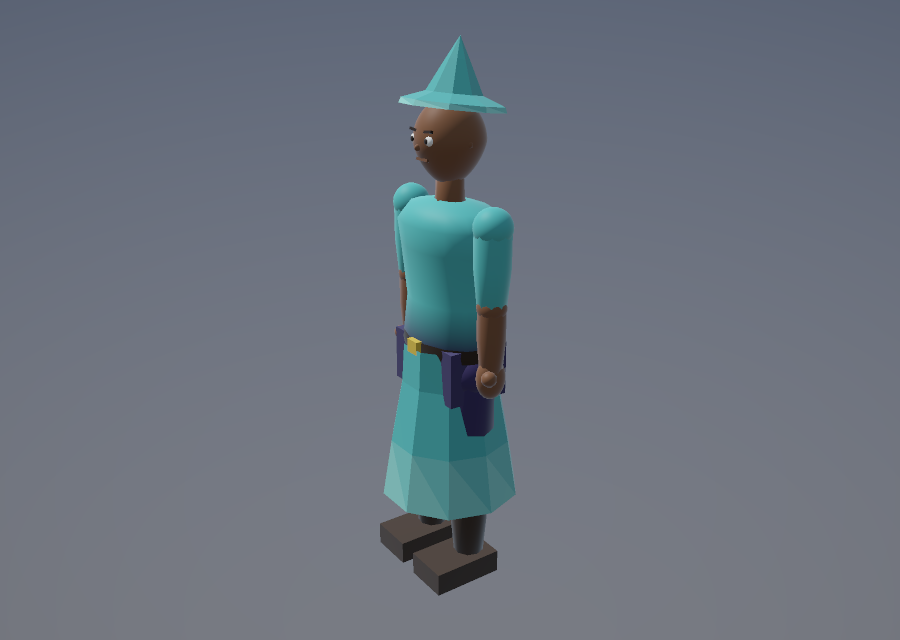
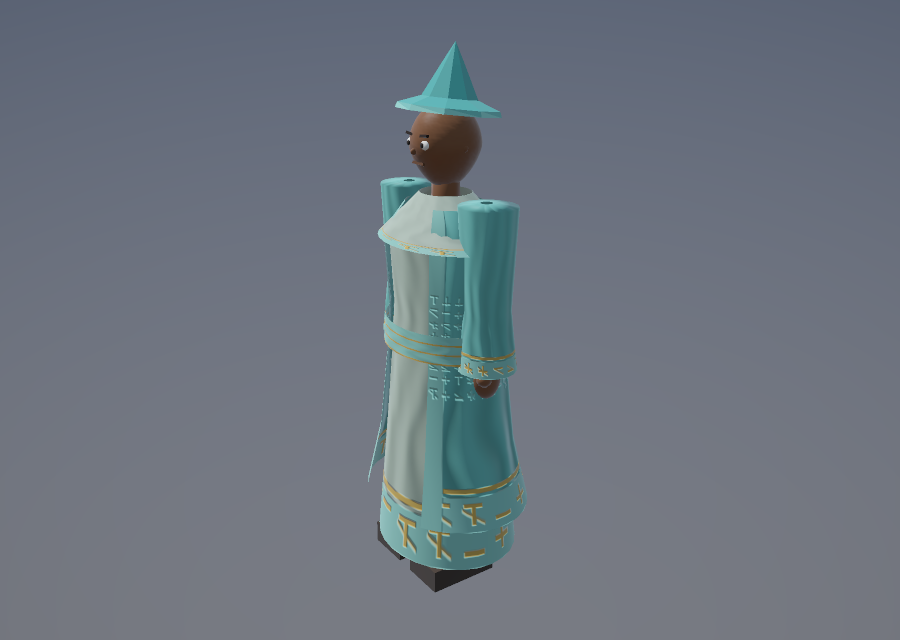
feat: accessories, AO bake, elder sage hero
- accessories param: bead necklace + gem pendant (draped over garments),
  belt knot with hanging ribbons, staff with orb — rigid-bound props
- mesh::bake_ao: deterministic spatial-grid vertex ambient occlusion baked
  into vertex colors (crevices read in any light); applied to characters
- examples/elder_sage.json: 15-line recipe reproducing the reference-style
  white-bearded sage in layered painted robes (rubric 4.4); gallery GLB +
  turntable and walking MP4s; mage/villager gallery recipes now dressed
- docs: phase 3 evaluation, README painted-garments overview, schema

Changed region(s): [[0.4044, 0.0625, 0.5911, 0.9375]]

diff --git a/src/generators/character.rs b/src/generators/character.rs
@@ -830,6 +830,16 @@ pub fn generate(p: &CharacterParams, pal: &Palette) -> Asset {
     );
     body.merge(&core);
 
+    // accessories (rigid-bound props)
+    for acc in &p.accessories {
+        if let Some(a) = accessory(acc, &rig, h, &w, pal) {
+            body.merge(&a);
+        }
+    }
+
+    // baked ambient occlusion: crevices read in any light
+    crate::mesh::bake_ao(&mut body, 0.55);
+
     let mut animations = Vec::new();
     if p.animate {
         animations.push(idle_clip(&rig, h));
@@ -1072,9 +1082,10 @@ fn outfit_parts(ctx: &GarmentCtx, style: &str) -> Vec<Part> {
                     rx: h * 0.058 * bulk,
                     rz: h * 0.056 * bulk,
                 },
-                // converge to close the shoulder opening
+                // converge to close the shoulder opening (kept low so the
+                // tip doesn't poke above the shoulder line from behind)
                 LoftStation {
-                    center: Vec3::new(ax, jw(aj).y + h * 0.062, 0.0),
+                    center: Vec3::new(ax * 0.96, jw(aj).y + h * 0.050, 0.0),
                     rx: h * 0.012,
                     rz: h * 0.012,
                 },
@@ -1169,6 +1180,82 @@ fn outfit_parts(ctx: &GarmentCtx, style: &str) -> Vec<Part> {
     }
 
     parts
+}
+
+/// Accessory props: bead necklace + gem pendant, belt knot with hanging
+/// ribbons, or a staff in the right hand.
+fn accessory(name: &str, rig: &Rig, h: f32, w: &Wardrobe, pal: &Palette) -> Option<Mesh> {
+    let jw = |i: usize| rig.world[i];
+    let gold = srgb(216, 176, 88);
+    let mut m = Mesh::new();
+    match name {
+        "necklace" => {
+            // beads draped across the chest in a shallow V
+            let c = jw(CHEST) + Vec3::new(0.0, h * 0.055, h * 0.125);
+            let beads = 15;
+            for i in 0..beads {
+                let t = i as f32 / (beads - 1) as f32; // 0..1 left→right
+                let x = (t - 0.5) * h * 0.11;
+                let sag = (1.0 - (2.0 * t - 1.0).powi(2)) * h * 0.05;
+                let mut bead = icosphere(h * 0.0075, 1, gold);
+                bead.translate(c + Vec3::new(x, -sag, -x.abs() * 0.25));
+                m.merge(&bead);
+            }
+            // pendant gem at the lowest point
+            let mut gem = icosphere(h * 0.016, 1, pal.accent * 1.3);
+            for v in gem.positions.iter_mut() {
+                v.y *= 1.4;
+            }
+            gem.recompute_smooth_normals();
+            gem.translate(c + Vec3::new(0.0, -h * 0.065, 0.0));
+            m.merge(&gem);
+            m.bind_all_to_joint(CHEST as u16);
+        }
+        "belt_knot" => {
+            let at = jw(HIPS) + Vec3::new(h * 0.02, h * 0.05, h * 0.115);
+            let knot = crate::subdiv::subdivide_n(
+                &cuboid(at, Vec3::new(h * 0.022, h * 0.018, h * 0.014), gold * 0.9),
+                1,
+                true,
+            );
+            m.merge(&knot);
+            // two hanging ribbon tails
+            for sx in [-1.0f32, 1.0] {
+                let guide: Vec<Vec3> = (0..5)
+                    .map(|i| {
+                        let t = i as f32 / 4.0;
+                        at + Vec3::new(
+                            sx * h * 0.012 + sx * t * h * 0.008,
+                            -t * h * 0.16,
+                            -t * t * h * 0.02,
+                        )
+                    })
+                    .collect();
+                m.merge(&ribbon(&guide, h * 0.022, h * 0.014, w.accent * 0.75, at));
+            }
+            m.bind_all_to_joint(HIPS as u16);
+        }
+        "staff" => {
+            let hand = jw(HAND_R);
+            let base = Vec3::new(hand.x - h * 0.01, 0.0, hand.z + h * 0.01);
+            let shaft = tube(
+                &[
+                    (base, h * 0.014),
+                    (base + Vec3::Y * h * 0.62, h * 0.012),
+                    (base + Vec3::Y * h * 1.02, h * 0.010),
+                ],
+                8,
+                |_| pal.trunk * 0.85,
+            );
+            m.merge(&crate::subdiv::subdivide(&shaft, false));
+            let mut orb = icosphere(h * 0.032, 2, pal.accent * 1.4);
+            orb.translate(base + Vec3::Y * h * 1.06);
+            m.merge(&orb);
+            m.bind_all_to_joint(HAND_R as u16);
+        }
+        _ => return None,
+    }
+    Some(m)
 }
 
 fn keys(n: usize, dur: f32) -> Vec<f32> {

diff --git a/src/mesh.rs b/src/mesh.rs
@@ -401,6 +401,70 @@ pub fn to_flat_shaded(src: &Mesh) -> Mesh {
     m
 }
 
+/// Bake approximate ambient occlusion into vertex colors: each vertex is
+/// darkened by nearby geometry in front of its normal (crevices, armpits,
+/// under-collar shadows). Deterministic spatial-grid sampling, O(n·k).
+pub fn bake_ao(m: &mut Mesh, strength: f32) {
+    use std::collections::HashMap;
+    let n = m.positions.len();
+    if n == 0 {
+        return;
+    }
+    let (lo, hi) = m.bounds();
+    let diag = (hi - lo).length().max(1e-6);
+    let radius = diag * 0.08;
+    let cell = radius;
+    let key = |p: Vec3| -> (i32, i32, i32) {
+        (
+            ((p.x - lo.x) / cell) as i32,
+            ((p.y - lo.y) / cell) as i32,
+            ((p.z - lo.z) / cell) as i32,
+        )
+    };
+    let mut grid: HashMap<(i32, i32, i32), Vec<u32>> = HashMap::new();
+    // subsample occluders on dense meshes to bound the cost
+    let step = (n / 20_000).max(1);
+    for i in (0..n).step_by(step) {
+        grid.entry(key(m.positions[i])).or_default().push(i as u32);
+    }
+    let mut occ = vec![0.0f32; n];
+    for i in 0..n {
+        let p = m.positions[i];
+        let nm = m.normals[i];
+        let (cx, cy, cz) = key(p);
+        let mut sum = 0.0f32;
+        for dx in -1..=1 {
+            for dy in -1..=1 {
+                for dz in -1..=1 {
+                    let Some(bucket) = grid.get(&(cx + dx, cy + dy, cz + dz)) else {
+                        continue;
+                    };
+                    for &j in bucket {
+                        let j = j as usize;
+                        if j == i {
+                            continue;
+                        }
+                        let d = m.positions[j] - p;
+                        let dist = d.length();
+                        if dist < 1e-6 || dist > radius {
+                            continue;
+                        }
+                        let toward = nm.dot(d / dist).max(0.0);
+                        // only geometry in FRONT of the surface occludes
+                        sum += toward * (1.0 - dist / radius).powi(2);
+                    }
+                }
+            }
+        }
+        occ[i] = sum;
+    }
+    let max = occ.iter().cloned().fold(0.0f32, f32::max).max(1e-6);
+    for i in 0..n {
+        let a = 1.0 - strength.clamp(0.0, 1.0) * 0.55 * (occ[i] / max).powf(0.7);
+        m.colors[i] *= a;
+    }
+}
+
 /// Axis-aligned box, flat-shaded.
 pub fn cuboid(center: Vec3, half: Vec3, color: Vec3) -> Mesh {
     let mut m = Mesh::new();

diff --git a/src/recipe.rs b/src/recipe.rs
@@ -216,6 +216,9 @@ pub struct CharacterParams {
     /// nasolabial folds).
     #[serde(default)]
     pub age: f32,
+    /// Extra props: necklace | belt_knot | staff.
+    #[serde(default)]
+    pub accessories: Vec<String>,
 }
 fn d_ornament() -> f32 { 0.6 }
 fn d_char_h() -> f32 { 1.7 }
@@ -462,6 +465,26 @@ mod tests {
         .build()
         .unwrap();
         assert_eq!(crate::gltf::to_glb(&long), crate::gltf::to_glb(&again));
+    }
+
+    #[test]
+    fn accessories_and_ao() {
+        let j = r#"{"kind":"character","seed":3,"accessories":["necklace","staff","belt_knot"]}"#;
+        let a = Recipe::parse(j).unwrap().build().unwrap();
+        a.validate().unwrap();
+        let bare = Recipe::parse(r#"{"kind":"character","seed":3}"#).unwrap().build().unwrap();
+        assert!(
+            a.parts[0].mesh.vertex_count() > bare.parts[0].mesh.vertex_count() + 100,
+            "accessories should add geometry"
+        );
+        // staff reaches above the head
+        let (_, hi) = a.parts[0].mesh.bounds();
+        let (_, bare_hi) = bare.parts[0].mesh.bounds();
+        assert!(hi.y > bare_hi.y + 0.05, "staff orb should top the silhouette");
+        // AO darkened somewhere without blowing out colors
+        assert!(a.parts[0].mesh.colors.iter().all(|c| c.max_element() <= 4.0));
+        let b = Recipe::parse(j).unwrap().build().unwrap();
+        assert_eq!(crate::gltf::to_glb(&a), crate::gltf::to_glb(&b));
     }
 
     #[test]

diff --git a/src/main.rs b/src/main.rs
@@ -443,7 +443,8 @@ palettes: verdant | autumn | arctic | volcanic | desert | mystic
  "bulk":1.0,"animate":true,"seed":1,
  "hair":"short|ponytail|bun|bald|long|topknot","beard":"none|mustache|short|long",
  "hair_color":"#eae7e0","skin_tone":0,"expressions":true,
- "outfit":"robe|tunic|plain","ornamentation":0.6,
+ "outfit":"robe|tunic|plain","ornamentation":0.6,"age":0.8,
+ "accessories":["necklace","belt_knot","staff"],
  "trim_motif":"meander|zigzag|dots|diamonds|scroll|runes"}
  // outfits: lofted painted garment stacks (under-robe, open coat, hanging
  // sleeves, sash + tail, mantle) with hem/cuff trim bands, brocade motifs,

diff --git a/docs/EVALUATION.md b/docs/EVALUATION.md
@@ -82,3 +82,29 @@ accessor bounds & counts, attribute/morph/skin/sampler consistency, embedded
 PNG magic, instancing attributes) and passes on all 27 gallery GLBs.
 Determinism (same recipe+seed → identical bytes) remains enforced by tests,
 including textures, erosion, rivers and instanced scatter.
+
+## Phase 3 — painted garments & hero characters (same rubric)
+
+Target: hand-painted-MMO fidelity (reference: layered-robe elder sage).
+The insight driving the phase: that look is ~70% *placement-aware painted
+texture* (hem borders, brocade, fold shading) on modest lofted geometry.
+
+| asset | score | notes |
+|---|---|---|
+| painted loft (band + motifs + folds demo) | 4.3 | greek-key hem trim reads exactly like the reference genre |
+| character v3: robe outfit (mage/warrior) | 4.3 | under-robe + open coat + sleeves + sash + mantle, all painted & skinned |
+| character v3: tunic (villager) | 4.1 | knee tunic, hem motif band, belt |
+| long hair + beard ribbon cards | 4.2 | white-haired elder heads; face kept clear |
+| painted faces + age | 4.2 | forehead lines / crow's feet / nasolabial at age 0.85 |
+| **elder sage hero** | **4.4** | necklace + pendant over mantle, belt knot, meander trims, walks with flowing robes |
+
+Bugs found only by rendering: garment radii vs. the elliptical torso
+(poke-through), sleeve tops as open tubes then as shoulder "chimneys",
+necklace buried under the coat, brocade motifs at wallpaper scale.
+
+Bug found only by byte-comparison: an in-process determinism heisenbug —
+the auto-vectorized Sobel normal pass returned *different bytes for
+identical inputs* depending on what had run earlier in the process
+(macOS ARM float-state sensitivity; two stable outcomes; disappeared under
+instrumentation). Fixed with f64 gradients + `std::hint::black_box`
+pinning the codegen; CLI output was always deterministic across processes.

diff --git a/README.md b/README.md
@@ -142,6 +142,25 @@ recipe JSON ──▶ generators (terrain/tree/rock/crystal/building/prop/charac
   ribbons, dirt path splines, cliff strata textures, and dense scatter as
   `EXT_mesh_gpu_instancing`.
 
+## Painted garments (phase 3)
+
+The hand-painted-MMO look — layered robes with ornamental trim — comes from
+two primitives that compose everywhere:
+
+- **`loft`** — elliptical cross-sections swept along a spine, open arcs for
+  front-open coats, with *structured UVs* (u = around, v = hem→collar).
+- **`paint` layers** — UV-space ops composited into the baked texture:
+  `band` borders with `meander`/`zigzag`/`dots`/`diamonds`/`scroll`/`runes`
+  motifs, brocade `motif_grid`, `stripes`, `gradient`, painted cloth
+  `folds`, `weathering`, front-edge `u_band`.
+
+Characters use them via one-line params: `"outfit": "robe"`,
+`"ornamentation": 0.85`, `"trim_motif": "meander"`, plus `hair: "long"`,
+`beard: "long"`, `hair_color`, `age` (painted wrinkles) and
+`accessories: ["necklace", "belt_knot", "staff"]`. See
+[examples/elder_sage.json](examples/elder_sage.json) — a white-bearded
+sage in layered painted robes, built from 15 lines of JSON.
+
 ## Quality process
 
 Every generator was iterated against rendered output using a 6-point rubric